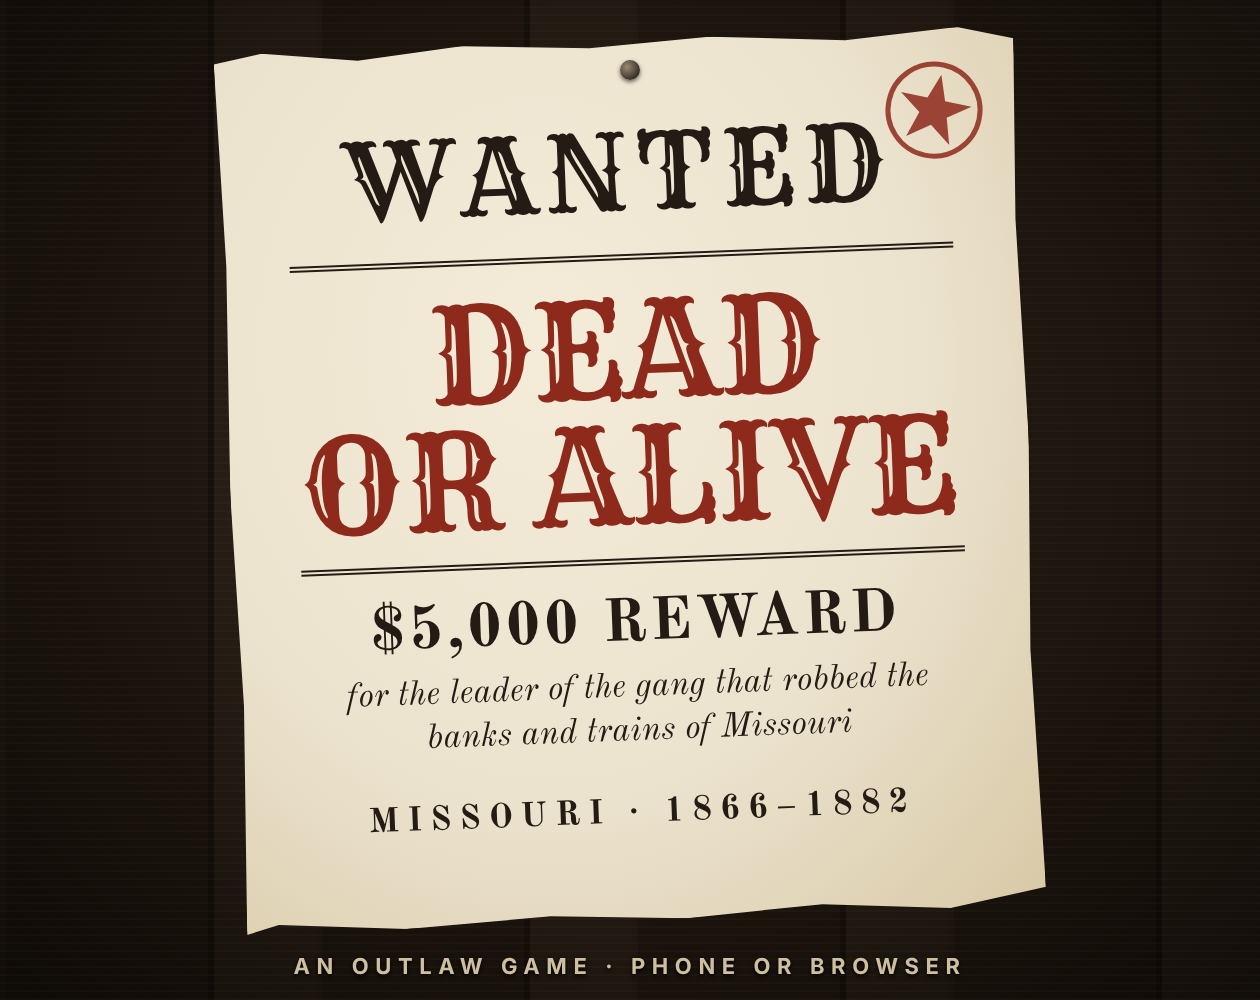
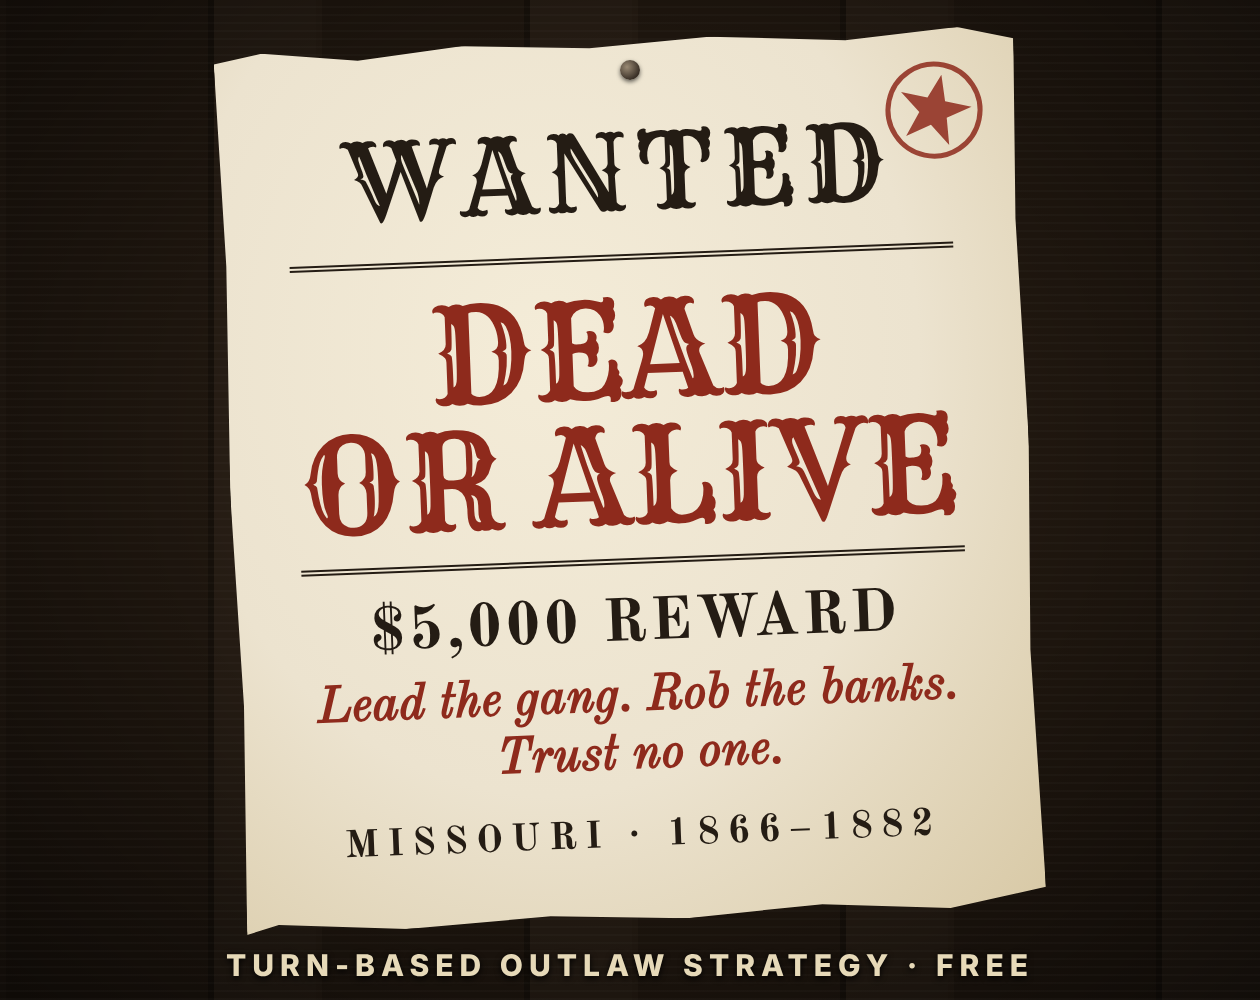
itch listing: a cover that says what the game is, and tags that bring visitors
The first day on itch: 699 listing impressions, 1.86% click-through (House of Adalia
4.67%, The Lists 3.49%). At 315x250 the cover's italic line and footer could not be
read, and nothing on it said strategy or gang.

- Cover: the italic line becomes the hook "Lead the gang. Rob the banks. Trust no
  one." at a size that reads in the preview; the footer says "Turn-based outlaw
  strategy · Free" and is now legible there too. The bill, the title and the
  palette are unchanged.
- Short description ends on the betrayal question, under 110 characters.
- Tags: crime, life-simulation and narrative in; singleplayer, mobile and offline out.

Claude-Session: https://claude.ai/code/session_01YKkU5fcEMQgYro21NFQmg7

Changed region(s): [[0.2476, 0.651, 0.7738, 0.837], [0.1857, 0.93, 0.8357, 0.992], [0.2786, 0.806, 0.4952, 0.868]]

diff --git a/docs/itch/cover.html b/docs/itch/cover.html
@@ -2,7 +2,11 @@
 <!-- docs/itch/cover.html: the 630x500 cover, rendered by tools/press.mjs at 2x.
      The game's own palette (src/ui/styles.css: newsprint #ece3cf, lamp-black
      #241c14, dried-blood #8e2a1c) and faces (Rye, Old Standard TT). A wanted bill
-     on a plank wall: the bill is the game's thesis, and it reads at 315x250. -->
+     on a plank wall: the bill is the game's thesis, and it reads at 315x250.
+     Revised after launch: the first cover got 1.86% click-through on its first
+     day. Its italic line and footer were unreadable at listing size, and nothing
+     said what kind of game it was. The hook and the genre line are now sized to
+     read in the 315x250 preview. -->
 <html><head><meta charset="utf-8">
 <link rel="stylesheet" href="https://fonts.googleapis.com/css2?family=Old+Standard+TT:ital,wght@0,400;0,700;1,400&family=Rye&display=swap">
 <style>
@@ -27,11 +31,11 @@
   .rule { margin: 0 34px; border-top: 3px double #241c14; }
   .wanted { font-family: Rye, "Rockwell Extra Bold", Georgia, serif; font-size: 52px; letter-spacing: .08em; margin: 34px 0 8px; }
   .title { font-family: Rye, "Rockwell Extra Bold", Georgia, serif; font-size: 66px; line-height: .95; margin: 14px 0 10px; color: #8e2a1c; }
-  .reward { font-weight: 700; font-size: 30px; letter-spacing: .06em; margin: 12px 0 2px; }
-  .for { font-style: italic; font-size: 17px; margin: 0 52px; line-height: 1.3; }
-  .place { font-weight: 700; font-size: 17px; letter-spacing: .24em; text-transform: uppercase; margin: 18px 0 0; }
+  .reward { font-weight: 700; font-size: 30px; letter-spacing: .06em; margin: 12px 0 4px; }
+  .hook { font-weight: 700; font-style: italic; font-size: 25px; margin: 0 30px; line-height: 1.15; color: #8e2a1c; }
+  .place { font-weight: 700; font-size: 19px; letter-spacing: .22em; text-transform: uppercase; margin: 14px 0 0; }
   .star { position: absolute; right: 16px; top: 16px; width: 50px; height: 50px; transform: rotate(14deg); opacity: .85; }
-  .foot { position: absolute; bottom: 10px; width: 100%; text-align: center; font: 700 11px system-ui, sans-serif; letter-spacing: .3em; text-transform: uppercase; color: #cdbf9f; text-shadow: 0 1px 2px #000; }
+  .foot { position: absolute; bottom: 8px; width: 100%; text-align: center; font: 800 15px system-ui, sans-serif; letter-spacing: .2em; text-transform: uppercase; color: #e6d9b8; text-shadow: 0 1px 3px #000; }
 </style></head><body>
   <div class="grain"></div>
   <div class="bill">
@@ -40,10 +44,10 @@
     <div class="title">DEAD<br>OR ALIVE</div>
     <div class="rule"></div>
     <div class="reward">$5,000 REWARD</div>
-    <div class="for">for the leader of the gang that robbed the banks and trains of Missouri</div>
+    <div class="hook">Lead the gang. Rob the banks.<br>Trust no one.</div>
     <div class="place">Missouri · 1866–1882</div>
     <svg class="star" viewBox="0 0 100 100"><circle cx="50" cy="50" r="46" fill="none" stroke="#8e2a1c" stroke-width="5"/><path d="M50 14 L59 39 L86 39 L64 55 L72 81 L50 65 L28 81 L36 55 L14 39 L41 39 Z" fill="#8e2a1c"/></svg>
   </div>
   <div class="nail"></div>
-  <div class="foot">An outlaw game · phone or browser</div>
+  <div class="foot">Turn-based outlaw strategy · Free</div>
 </body></html>

diff --git a/docs/itch/ITCH.md b/docs/itch/ITCH.md
@@ -30,7 +30,7 @@ Every count in the copy is read out of the build, not from memory.
 | Release status | Released |
 | Pricing | No payments (or Donate, $0 minimum: the author's call) |
 | Genre | Strategy |
-| Tags | western, outlaws, turn-based, strategy, historical, management, singleplayer, text-based, mobile, offline |
+| Tags | western, outlaws, crime, turn-based, strategy, historical, management, text-based, life-simulation, narrative (singleplayer, mobile and offline dropped after launch: the platform filters already cover mobile, and nobody browses those three; life-simulation is the tag that sends this account the most visits) |
 | Cover | `cover-630x500.png` (check `cover-preview-315x250.png`: that is how browse listings show it) |
 | Screenshots | shot1-plan-a-job, shot2-the-map, shot3-the-gang, shot4-the-papers (a real game the careful bot played to winter 1869, as Will Harlan) |
 | Links | None yet: the GitHub Pages copy deploys from the default branch, and this work is not merged |
